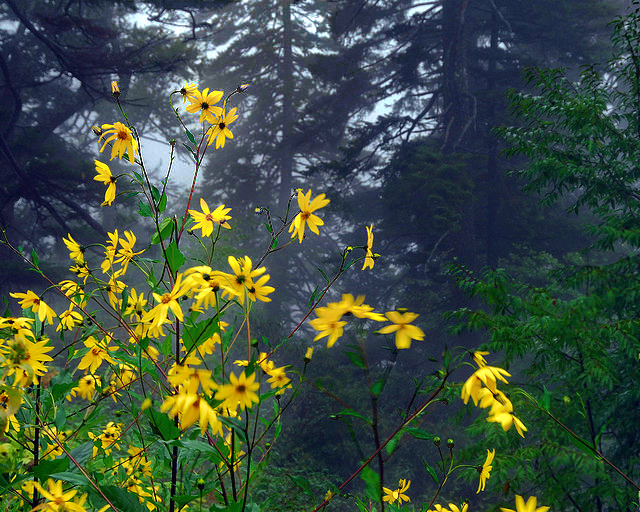
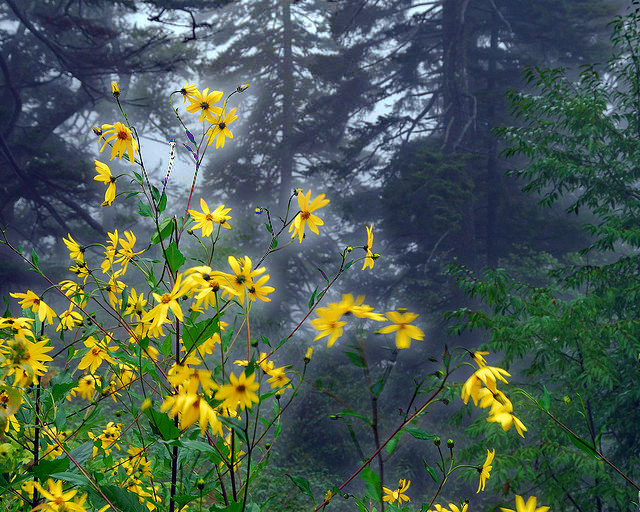
daily update

diff --git a/dehazing-locally_adaptive.py b/dehazing-locally_adaptive.py
@@ -5,49 +5,33 @@ Spyder Editor
 This is a temporary script file.
 """
 
-from scipy import *
-#from pylab import *
 import matplotlib.pyplot as plt
-#from scipy.misc import imresize
-#from scipy.misc import imsave
-import cv2
+import numpy as np
+import cv2 
 from cv2.ximgproc import guidedFilter
 from skimage.restoration import denoise_tv_chambolle, denoise_bilateral
 from skimage.io import imread, imsave
 
-#def KNB(mw,cent,K):
-#    r = size(mw)
-#    #cent = mw[int(floor(r/2)), int(floor(c/2))]
-#    dist = zeros(r)
-#    dist = abs(mw - cent)
-#    dist_ord = sort(ravel(dist[:]))
-#    dist_K = dist_ord[K-1]
-#    x = where(dist <= dist_K)
-#    nbh = mw[x]
-#    nbh = ravel(sort(nbh))
-#    nbh = nbh[0:K]
-#    return nbh
-
 def KNB(mw,K):
     mwg = rgb2gray(mw)
-    r = size(mwg)
+    r = np.size(mwg)
     
-    re,co = shape(mwg)
-    nbh = zeros([re,co,3])
+    re,co = np.shape(mwg)
+    nbh = np.zeros([re,co,3])
     #nbh_t = zeros([r,3])
-    nbh_v = zeros([K,3])
-    cent = mwg[int(floor(re/2)), int(floor(co/2))]
-    dist = zeros(r)
+    nbh_v = np.zeros([K,3])
+    cent = mwg[int(np.floor(re/2)), int(np.floor(co/2))]
+    dist = np.zeros(r)
     dist = abs(mwg - cent)
-    dist_ord = sort(ravel(dist[:]))
+    dist_ord = np.sort(np.ravel(dist[:]))
     dist_K = dist_ord[K-1]
-    x,y = where(dist <= dist_K)
+    x,y = np.where(dist <= dist_K)
     nbh[x,y,0] = mw[x,y,0]
     nbh[x,y,1] = mw[x,y,1]
     nbh[x,y,2] = mw[x,y,2]
-    nbh_t0 = sorted(ravel(nbh[:,:,0]),reverse=True)
-    nbh_t1 = sorted(ravel(nbh[:,:,1]),reverse=True)
-    nbh_t2 = sorted(ravel(nbh[:,:,2]),reverse=True)
+    nbh_t0 = sorted(np.ravel(nbh[:,:,0]),reverse=True)
+    nbh_t1 = sorted(np.ravel(nbh[:,:,1]),reverse=True)
+    nbh_t2 = sorted(np.ravel(nbh[:,:,2]),reverse=True)
     nbh_v[:,0] = nbh_t0[0:K]
     nbh_v[:,1] = nbh_t1[0:K]
     nbh_v[:,2] = nbh_t2[0:K]
@@ -63,7 +47,7 @@ def EV(mw,ev):
     return nbh
 
 def rgb2gray(img):
-    img_gray = double( (0.2989*img[:,:,0] + 0.5870*img[:,:,0] + 0.1140*img[:,:,0])) # RGB to Gray Conversion
+    img_gray = np.double( (0.2989*img[:,:,0] + 0.5870*img[:,:,0] + 0.1140*img[:,:,0])) # RGB to Gray Conversion
     return img_gray
         
 S = 19 # Defines the size of sliding-window (SxS) for Airlight estimation
@@ -83,8 +67,8 @@ S = 19 # Defines the size of sliding-window (SxS) for Airlight estimation
 #f_sin = im[:,:,0:3]
 
 ## Read the input hazy image from drive
-imgName = 'fuente'
-f_c = double( imread(imgName +".png") ) # Read Input Hazy Image
+imgName = 'maguey'
+f_c = np.double( imread(imgName +".png") ) # Read Input Hazy Image
 
 ####################
 # Size of the Input Image
@@ -93,16 +77,19 @@ Nr,Nc,Np = f_c.shape
 
 #########################################
 # Extention of the input image to avoid edge issues
-A1 = concatenate((flipud(fliplr(f_c)), flipud(f_c), flipud(fliplr(f_c))), axis=1)
-A2 = concatenate((fliplr(f_c), f_c, fliplr(f_c)), axis=1)
-A3 = concatenate((flipud(fliplr(f_c)), flipud(f_c), flipud(fliplr(f_c))), axis=1)
-f_proc = concatenate( (A1,A2,A3) ,axis=0)
+A1 = np.concatenate((np.flipud(np.fliplr(f_c)), np.flipud(f_c), np.flipud(np.fliplr(f_c))), axis=1)
+A2 = np.concatenate((np.fliplr(f_c),            f_c,            np.fliplr(f_c)), axis=1)
+A3 = np.concatenate((np.flipud(np.fliplr(f_c)), np.flipud(f_c), np.flipud(np.fliplr(f_c))), axis=1)
+f_proc = np.concatenate( (A1,A2,A3) ,axis=0)
 f_proc = f_proc[Nr-int((S-1)/2):2*Nr+int((S-1)/2), Nc-int((S-1)/2):2*Nc+int((S-1)/2),:]
 
-A_test = zeros([Nr,Nc])
+#f_proc = np.zeros([np.size(f_c,0)+S,np.size(f_c,1)+S,np.size(f_c,2)])
+#f_proc[int((S-1)/2):int((S-1)/2)+Nr,int((S-1)/2):int((S-1)/2)+Nc,:] = f_c.copy()
+
+A_test = np.zeros([Nr,Nc])
 #A_test2 = zeros([Nr,Nc])
-f_mv = zeros([S,S])
-K = floor(2*S*S/3)
+f_mv = np.zeros([S,S])
+K = np.floor(2*S*S/3)
 for k in range(Nr):
     leyend = 'Estimating Airlight: ' + str(int(100*(k+1)/Nr)) + '%'
     print(leyend)
@@ -117,26 +104,26 @@ for k in range(Nr):
         A_test[k,l] = u / (1 + v)
 print('Done!')
 
-x0,y0 = where( A_test == A_test.max())
-A = zeros(3)
+x0,y0 = np.where( A_test == A_test.max())
+A = np.zeros(3)
 A[0] = f_c[x0[0], y0[0],0]
 A[1] = f_c[x0[0], y0[0],1]
 A[2] = f_c[x0[0], y0[0],2]
 A_est = 0.2989*A[0] + 0.5870*A[1] + 0.1140*A[2]
 
-t_est = zeros([Nr,Nc])
-trans = zeros([Nr,Nc])
+t_est = np.zeros([Nr,Nc])
+trans = np.zeros([Nr,Nc])
 
-#PAR = [15, 0.01, 1.0, 4.] # Parameters for maguey
-#PAR = [9, 0.01, 10.0, 4.] # Parameters for flores
-PAR = [19, 0.6, 0.6, 6.] # Parameters for fuente
+PAR = [19, 0.01, 1.0, 8.] # Parameters for maguey
+#PAR = [5, 0.01, 10.0, 4.0] # Parameters for flores
+#PAR = [19, 0.6, 0.6, 6.] # Parameters for fuente
 
 S = PAR[0]      # Defines the size of sliding-window SxS
 w = PAR[1]      # Minimum allowed value of transmission
 j0 = PAR[2]     # Parameter for transmission estimation
 Kdiv = PAR[3]   # Parameter for caculation of K in adaptive neighborhoods
 
-y = zeros([Nr,Nc,Np])
+y = np.zeros([Nr,Nc,Np])
 K = S**2 - int((S**2)/Kdiv)
  
 for k in range(Nr):
@@ -162,17 +149,19 @@ for k in range(Nr):
         if t_est[k,l] < w:
             t_est[k,l] = w
 print('Done!')
-t_est = guidedFilter(uint8(f_c),uint8(255*t_est),30,0.05) / 255.0
-trans = denoise_tv_chambolle(t_est, weight=0.1, multichannel=False)
-#trans = denoise_bilateral(t_est, sigma_color=0.05, sigma_spatial=10, multichannel=False)
+
+#trans = denoise_tv_chambolle(t_est, weight=1000.0, multichannel=False)
+trans = guidedFilter(np.uint8(f_c),np.uint8(255*t_est),15,0.1) / 255.0
 
 y[:,:,0] = (f_c[:,:,0] - A[0]) / trans + A[0]
 y[:,:,1] = (f_c[:,:,1] - A[1]) / trans + A[1] 
 y[:,:,2] = (f_c[:,:,2] - A[2]) / trans + A[2]
 y[:,:,:] = abs(y[:,:,:])
+xs,ys,zs = np.where( y > 255 )
+y[xs,ys,zs] = 255.0
                     
 plt.subplot(121), plt.imshow(f_c/255.), plt.title('Hazy Image')
 plt.subplot(122), plt.imshow(y/255.), plt.title('Processed Image')
 
 
-imsave('%s_output.png' % (imgName), uint8(y))
+imsave('%s_output.png' % (imgName), np.uint8(y))
